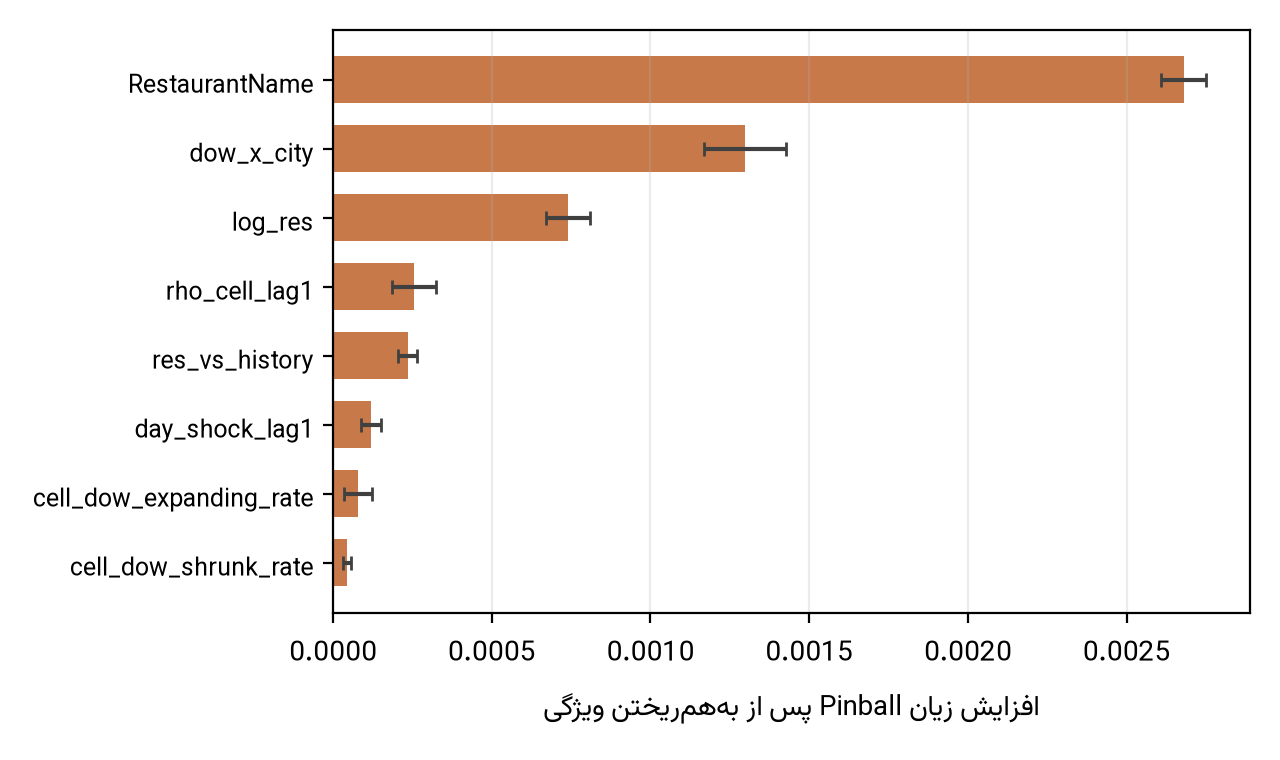
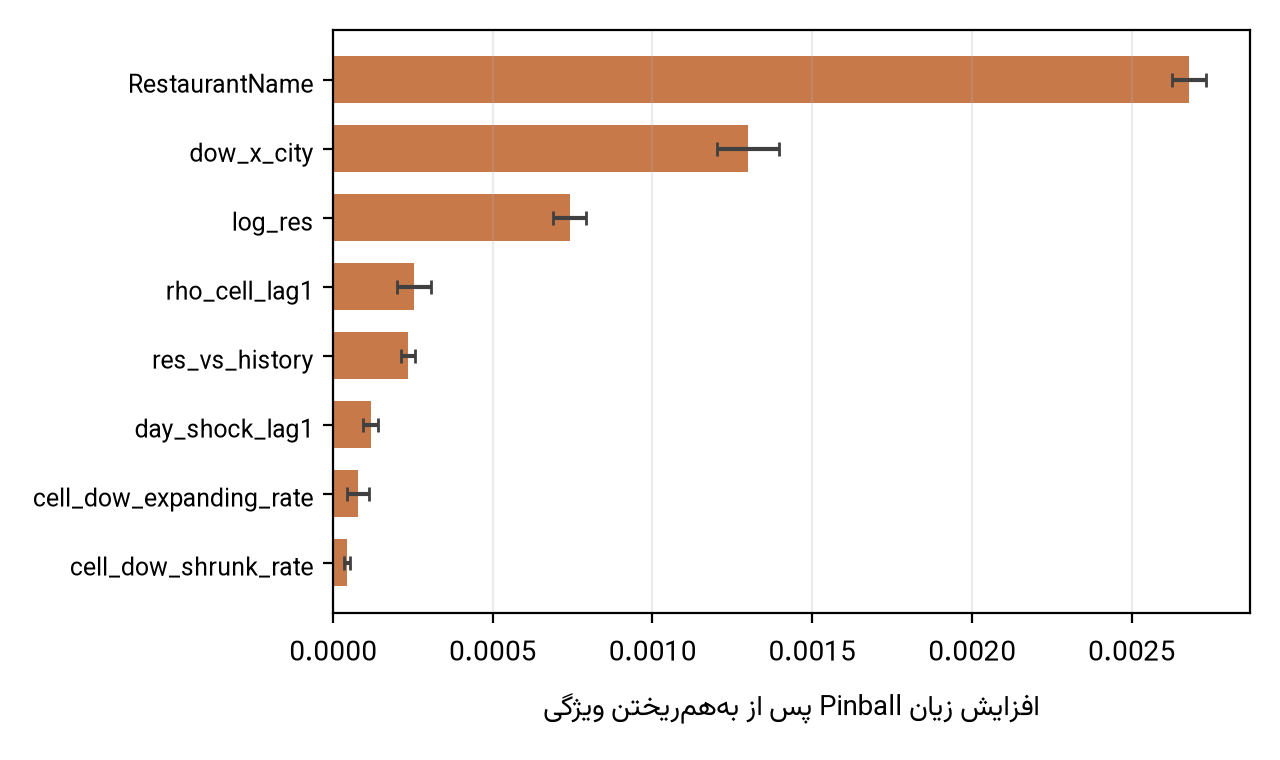
fix(final_report): خط خطای شکل اهمیت جایگشتی بازهی اطمینان ۹۵٪ شد
خط خطا تا حالا خودِ انحراف معیار ده تکرار جایگشت بود، که برای خواننده معیار
سنجش معناداری نیست. حالا بازهی اطمینان ۹۵٪ میانگین است:
t(0.975, 9) × s / √10، با تبدیل std بند ۹.۱ (ddof=0) به انحراف معیار نمونهای.
کپشن شکل ۴-۲ هم مطابقش اصلاح شد.

جدول symlink در tools/report_figures/README.md با حذف شکل کالیبراسیون و
شمارهگذاری جدید شکلهای فصل ۴ هماهنگ شد.

diff --git a/tools/report_figures/make_figs.py b/tools/report_figures/make_figs.py
@@ -3,9 +3,11 @@ import matplotlib
 matplotlib.use("Agg")
 import matplotlib.pyplot as plt
 import pandas as pd
+from scipy.stats import t
 from src import viz_fa  # noqa: F401  — فونت فارسی و patch متن
 
-# final_report/img/reliability.png و .../perm_importance.png symlink به این دو هستند —
+# final_report/img/perm_importance.png symlink به دومی است (شکل کالیبراسیون از فصل ۴
+# حذف شد ولی فایلش بهعنوان شاهد بند ۸.۸ اینجا تولید میشود) —
 # reports/figures/ منبع حقیقت تصاویر گزارش است (tools/report_figures/README.md).
 OUT_RELIABILITY = "reports/figures/phase8/8.8_reliability_fa.png"
 OUT_PERM_IMPORTANCE = "reports/figures/phase9/9.1_perm_importance_fa.png"
@@ -27,8 +29,13 @@ fig.tight_layout(); fig.savefig(OUT_RELIABILITY, dpi=200); plt.close(fig)
 # ---- شکل اهمیت ویژگی (بند ۴-۵-۲) ----
 f = pd.read_csv("reports/phase9/9.1_feature_importance.csv", index_col=0)
 f = f.sort_values("perm_importance_mean", ascending=False).head(8).iloc[::-1]
+# خط خطا = بازهی اطمینان ۹۵٪ میانگین روی N_REPEATS تکرار جایگشت، نه خودِ انحراف معیار:
+# np.std در بند ۹.۱ با ddof=0 حساب شده، پس اول به انحراف معیار نمونهای تبدیل میشود.
+N_REPEATS = 10
+sd_sample = f["perm_importance_std"] * (N_REPEATS / (N_REPEATS - 1)) ** 0.5
+ci95 = t.ppf(0.975, N_REPEATS - 1) * sd_sample / N_REPEATS**0.5
 fig, ax = plt.subplots(figsize=(6.4, 3.8))
-ax.barh(range(len(f)), f["perm_importance_mean"], xerr=f["perm_importance_std"],
+ax.barh(range(len(f)), f["perm_importance_mean"], xerr=ci95,
         color="#c8794a", ecolor="0.25", capsize=2.5, height=0.68)
 ax.set_yticks(range(len(f)))
 ax.set_yticklabels(f.index, fontsize=9)

diff --git a/final_report/tex/chapter4.tex b/final_report/tex/chapter4.tex
@@ -582,7 +582,8 @@ $50\%$ نوسان دارد. پس تعهد $\tau = 0.20$ میانگینی در س
 \includegraphics[width=0.68\textwidth]{perm_importance.png}
 \caption[هشت ویژگی مؤثر مدل بر اساس اهمیت جایگشتی]{%
 هشت ویژگی مؤثر مدل بر اساس اهمیت جایگشتی. هر میله نشان میدهد اگر مقادیر آن ویژگی
-بههم بریزد، زیان \lr{Pinball} چقدر بدتر میشود؛ خط خطا انحراف معیار ده تکرار است.}
+بههم بریزد، زیان \lr{Pinball} چقدر بدتر میشود؛ خط خطا بازهی اطمینان ۹۵٪ روی ده
+تکرار جایگشت است.}
 \label{fig:perm}
 \end{figure}
 

diff --git a/tools/report_figures/README.md b/tools/report_figures/README.md
@@ -6,20 +6,19 @@
 داخل گزارش هم خودکار بهروز میشود — نیازی به کپی دستی نیست.
 
 ```bash
-PYTHONPATH=. .venv/bin/python tools/report_figures/make_figs.py            # reliability.png, perm_importance.png
-PYTHONPATH=. .venv/bin/python tools/report_figures/make_surrogate_tree.py  # surrogate_tree.png (شکل ۴-۴)
-PYTHONPATH=. .venv/bin/python tools/report_figures/make_residual_figs.py   # residual_hist.png, resid_acf.png (شکل ۴-۳)
+PYTHONPATH=. .venv/bin/python tools/report_figures/make_figs.py            # perm_importance.png (+ 8.8_reliability_fa.png، دیگر در گزارش نمیآید)
+PYTHONPATH=. .venv/bin/python tools/report_figures/make_surrogate_tree.py  # surrogate_tree.png (شکل ۴-۳)
+PYTHONPATH=. .venv/bin/python tools/report_figures/make_residual_figs.py   # residual_hist.png, resid_acf.png (پانلهای آ و ب شکل ۴-۱)
 PYTHONPATH=. .venv/bin/python -m src.models.run_phase10_tau_curve          # tau_tradeoff.png (بند ۱۰.۷)
 ```
 
-`resid_vs_res.png` (شکل ۴-۲) اسکریپت جدا ندارد — کپی/تبدیلی لازم نداشت، پس مستقیم
+`resid_vs_res.png` (پانل ج شکل ۴-۱) اسکریپت جدا ندارد — کپی/تبدیلی لازم نداشت، پس مستقیم
 symlink به خروجی `src/models/run_phase8_residuals.py` است.
 
 ## نگاشت symlink → مبدأ
 
 | `final_report/img/` | `reports/figures/` |
 |---|---|
-| `reliability.png` | `phase8/8.8_reliability_fa.png` |
 | `perm_importance.png` | `phase9/9.1_perm_importance_fa.png` |
 | `surrogate_tree.png` | `phase9/9.5_surrogate_tree_fa.png` |
 | `residual_hist.png` | `phase8/8.2_residual_hist_fa.png` |
